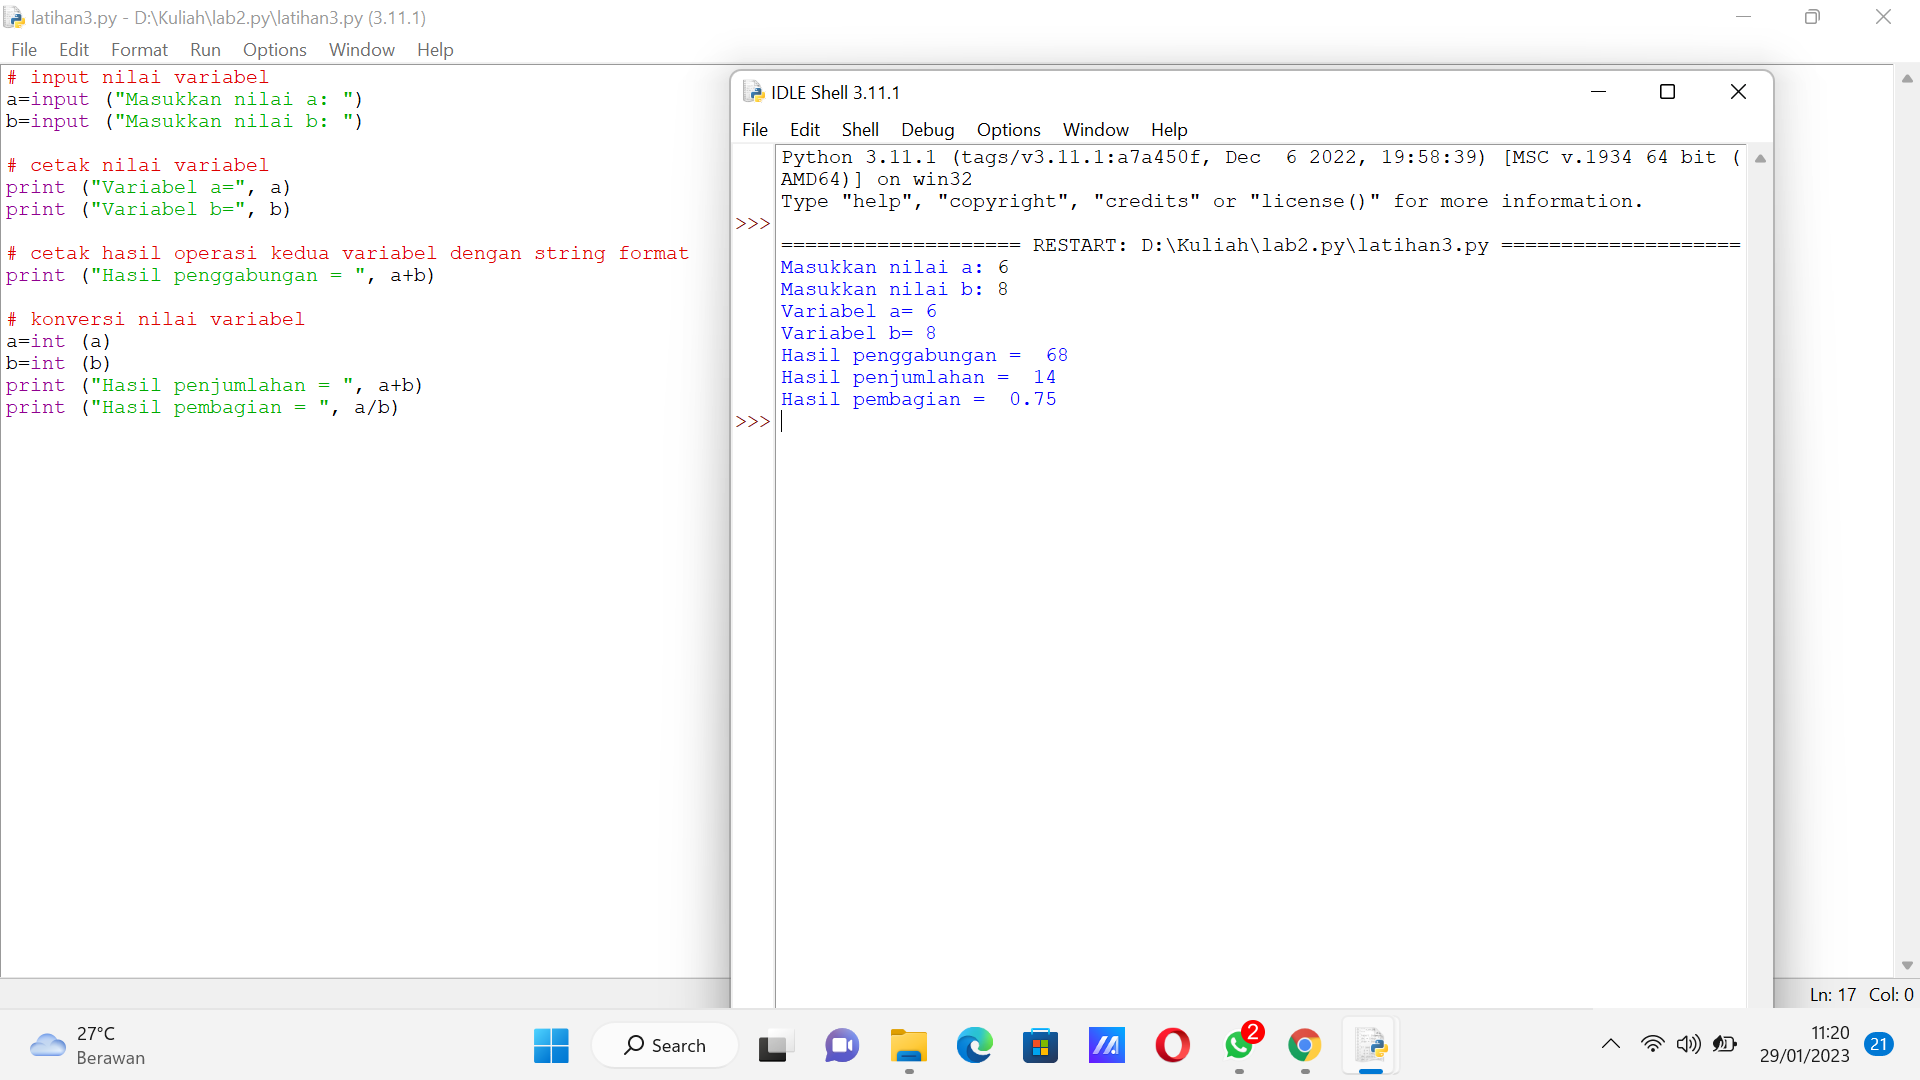
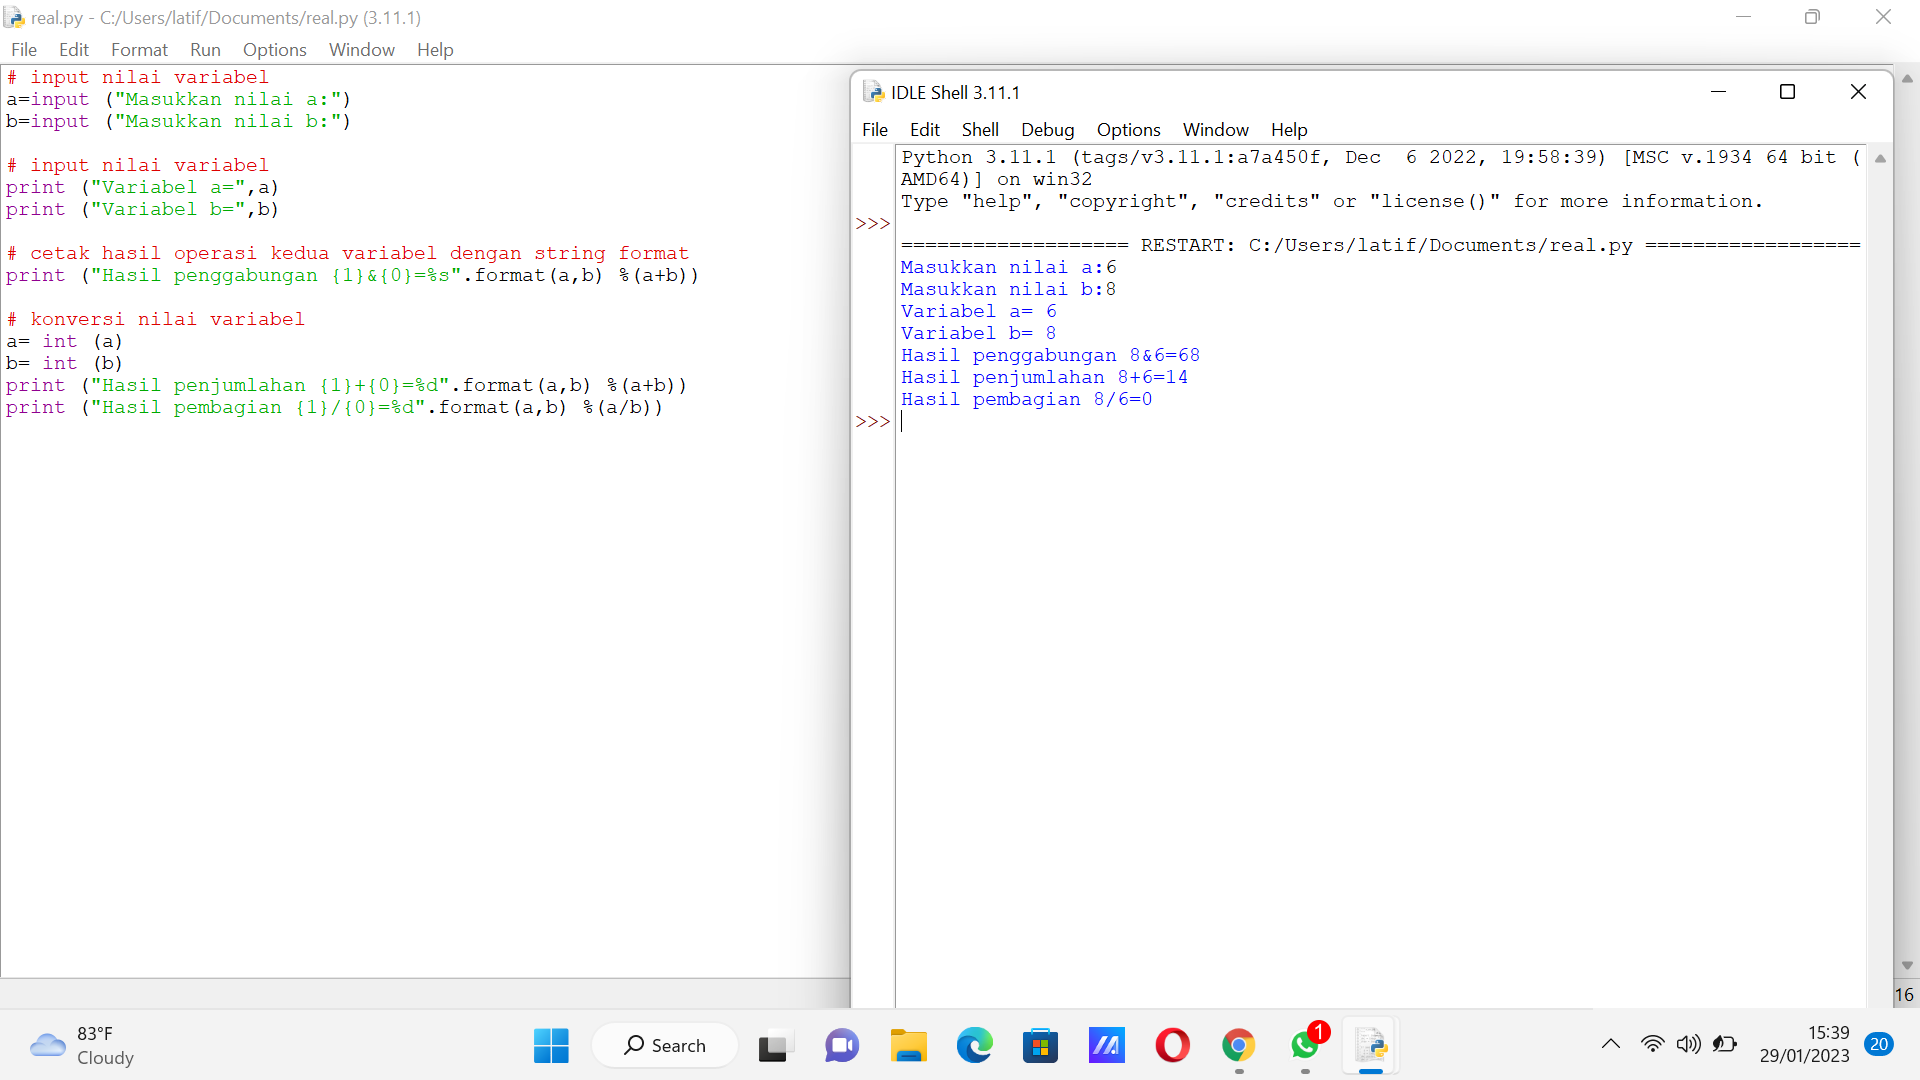
update

diff --git a/file/latihan3.py b/file/latihan3.py
@@ -1,25 +1,16 @@
-Python 3.11.1 (tags/v3.11.1:a7a450f, Dec  6 2022, 19:58:39) [MSC v.1934 64 bit (AMD64)] on win32
-Type "help", "copyright", "credits" or "license()" for more information.
->>> # input nilai variabel
->>> a=input ("Masukkan nilai a:")
-Masukkan nilai a:5
->>> b=input ("Masukkan nilai b:")
-Masukkan nilai b:6
->>> 
->>> # input nilai variabel
->>> print ("Variabel a=",a)
-Variabel a= 5
->>> print ("Variabel b=",b)
-Variabel b= 6
->>> 
->>> # cetak hasil operasi kedua variabel dengan string format
->>> print ("Hasil penggabungan=", a+b)
-Hasil penggabungan= 56
->>> 
->>> # konversi nilai variabel
->>> a=int (a)
->>> b=int (b)
->>> print ("Hasil penjumlahan=", a+b)
-Hasil penjumlahan= 11
->>> print ("Hasil penjumlahan=", a/b)
-Hasil penjumlahan= 0.8333333333333334
+# input nilai variabel
+a=input ("Masukkan nilai a:")
+b=input ("Masukkan nilai b:")
+
+# input nilai variabel
+print ("Variabel a=",a)
+print ("Variabel b=",b)
+
+# cetak hasil operasi kedua variabel dengan string format
+print ("Hasil penggabungan {1}&{0}=%s".format(a,b) %(a+b))
+
+# konversi nilai variabel
+a= int (a)
+b= int (b)
+print ("Hasil penjumlahan {1}+{0}=%d".format(a,b) %(a+b))
+print ("Hasil pembagian {1}/{0}=%d".format(a,b) %(a/b))
